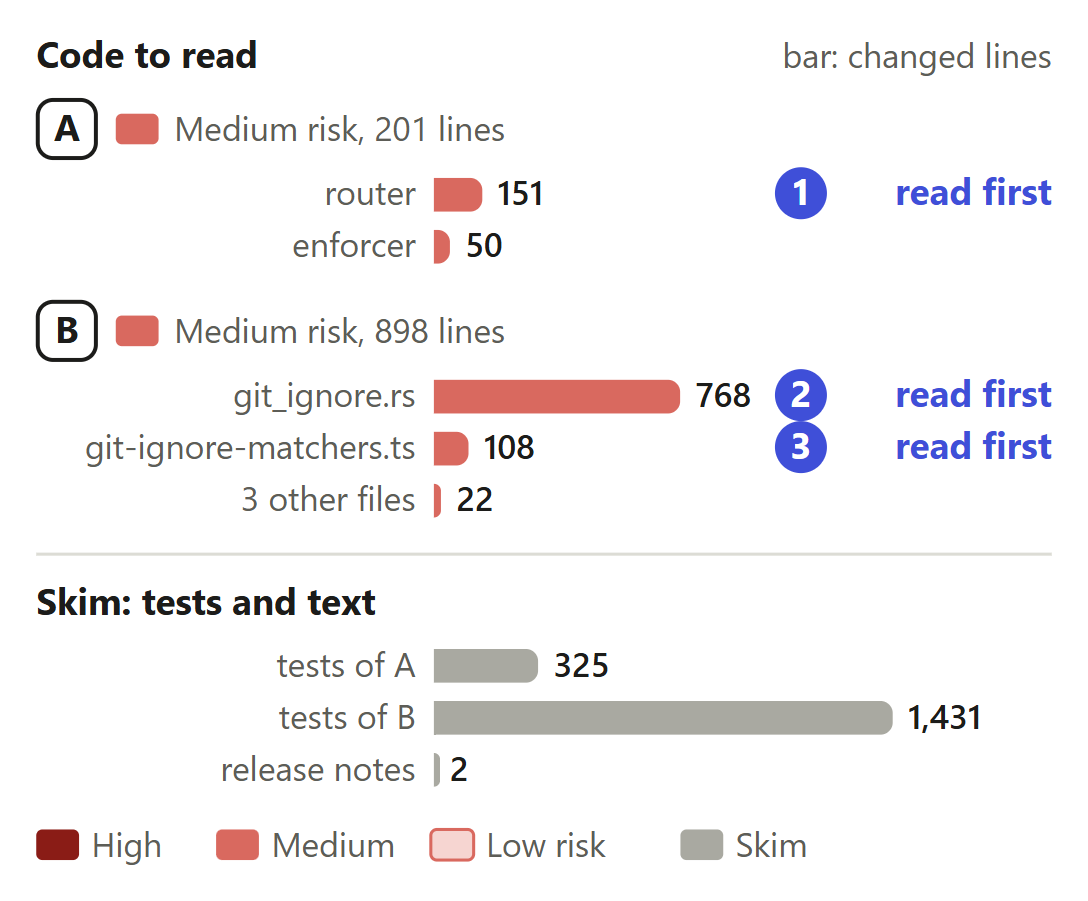
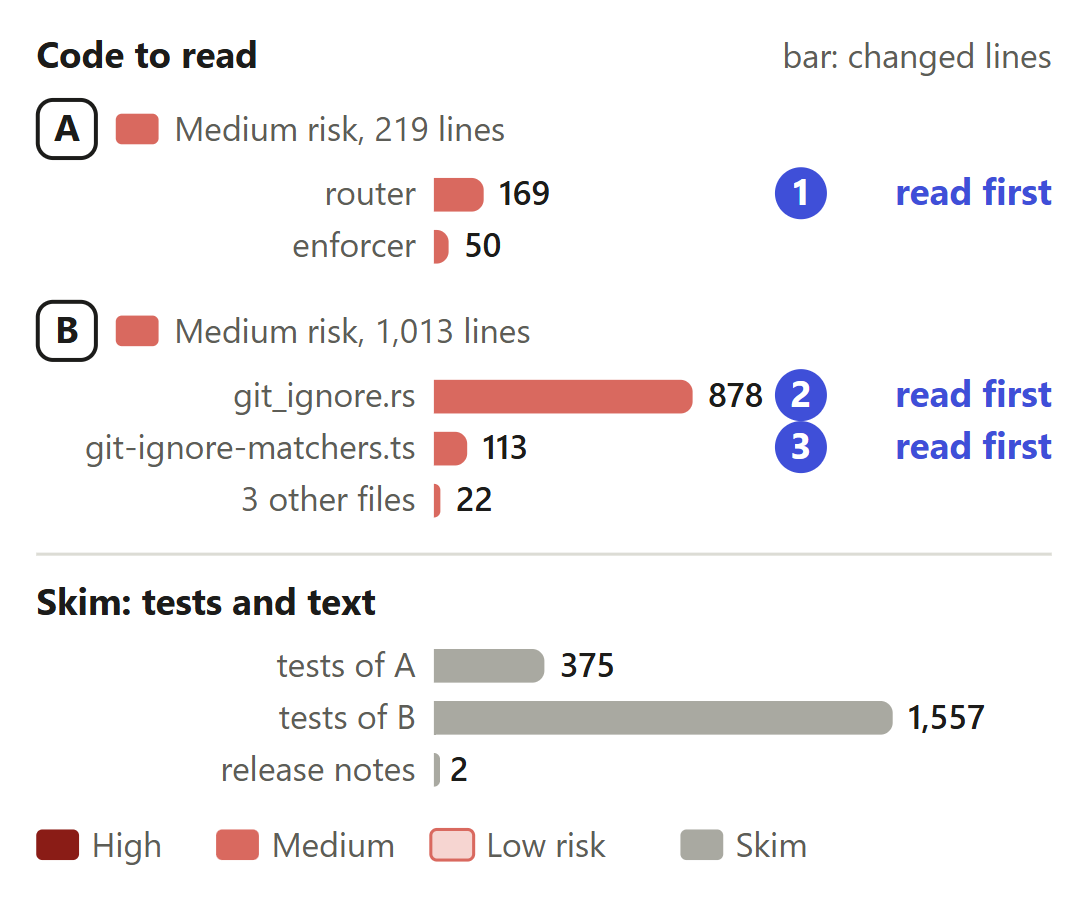
Decision report for #812 (JeanFrancoisGagne/main-memory-per-worktree)
main-memory-per-worktree/ holds what the pull request's callout links: README.md, the report in GitHub Markdown; report.html, the self-standing page; and 2 image(s).

diff --git a/main-memory-per-worktree/report.html b/main-memory-per-worktree/report.html
@@ -317,11 +317,11 @@ td .src { display: block; font-size: 13px; color: var(--muted); margin-top: 3px;
   <div class="q"><div class="ql">1. The one question</div>
   <p>May a walk answer for a worktree by another&#x27;s rule engine holding the same rules, and sessions share each checkout&#x27;s Git ignore reader?</p>
   </div>
-  <p class="rec"><b>We recommend:</b> approve it: on the 0.2.0 engine the first session&#x27;s walk of 190 checkouts takes 578 MB where <code>main</code> takes 1,898 MB; answers are <code>main</code>&#x27;s or Git&#x27;s, network shares included.</p>
+  <p class="rec"><b>We recommend:</b> approve it: on the 0.2.0 engine the first session&#x27;s walk of 61 checkouts takes 377 to 516 MB where <code>main</code> takes 903 to 1,045 MB; answers are <code>main</code>&#x27;s or Git&#x27;s (network shares: stand-in cases).</p>
   <div class="big">
-    <div><b class="w">2,857 lines</b><span>in 15 files. 1,099 ship, 1,758 are tests and text.</span></div><div><b class="w">Careful review</b><span>It changes which engine answers a walk&#x27;s questions.</span></div><div><b class="w">Waits on Nothing</b><span>No CI result at this head yet.</span></div><div><b class="w">4 not verified</b><span><a href="#gaps">Part 8</a> lists each.</span></div>
+    <div><b class="w">3,166 lines</b><span>in 15 files. 1,232 ship, 1,934 are tests and text.</span></div><div><b class="w">Careful review</b><span>It changes which engine answers a walk&#x27;s questions.</span></div><div><b class="w">Waits on Nothing</b><span>No CI result at this head yet.</span></div><div><b class="w">4 not verified</b><span><a href="#gaps">Part 8</a> lists each.</span></div>
   </div>
-  <p class="state">Read from <a href="https://github.com/neralabs/rerail/pull/812">GitHub</a> on 19 November 2026, at head 550728530.</p>
+  <p class="state">Read from <a href="https://github.com/neralabs/rerail/pull/812">GitHub</a> on 19 November 2026, at head da345bfc3.</p>
 </header>
 <section id="intent"><h2>2. Intent, and the gap</h2>
 <figure class="fg flat"><table class="tc it"><colgroup><col style="width:15%"><col style="width:25%"><col style="width:29%"><col style="width:31%"></colgroup><thead><tr><th>Change</th><th>Intended</th><th>Found</th><th>Now</th></tr></thead><tbody><tr><td class="k"><span class="lb">A</span><b>A walk&#x27;s questions</b></td><td class="in" data-l="Intended">A walk&#x27;s question about a file is answered by the rules of the file&#x27;s own checkout. <span class="tagx">our reading</span></td><td class="fo" data-l="Found">One session in 153 checkouts took the daemon over 2 GB: one engine per worktree the walk asked about. <span class="tagx">heap snapshot</span></td><td class="now" data-l="Now"><b>Closes the gap</b> an open engine at the same rules version answers for a worktree with no engine, through that worktree&#x27;s Git ignore rules.</td></tr><tr><td class="k"><span class="lb">B</span><b>Git ignore readers</b></td><td class="in" data-l="Intended">A router&#x27;s Git ignore rules for a checkout open once; &quot;its rules open once&quot;. <span class="tagx">code comment</span></td><td class="fo" data-l="Found">Each session opened a reader, with its copy of the index, in every worktree it asked about. <span class="tagx">one reading</span></td><td class="now" data-l="Now"><b>Closes the gap</b> and sessions share one reader per checkout while its rules are unchanged.</td></tr><tr><td class="k"><span class="lb">B</span><b>The index read again</b></td><td class="in" data-l="Intended">&quot;The index is re-read whenever it changes on disk.&quot; <span class="tagx">code comment</span></td><td class="fo" data-l="Found">A file <code>git add -f</code> made tracked within one clock step stayed ignored: 0 of 5 edits checked. <span class="tagx">engine case, #809</span></td><td class="now" data-l="Now"><b>Closes the gap</b> and rereads the index whenever its file&#x27;s identity, time or size changes.</td></tr></tbody></table>
@@ -329,7 +329,7 @@ td .src { display: block; font-size: 13px; color: var(--muted); margin-top: 3px;
 <details class="ev"><summary>Sources at main, and causes</summary><div class="table-wrap"><table class="tc tight"><colgroup><col style="width:16%"><col style="width:42%"><col style="width:42%"></colgroup><thead><tr><th>Change</th><th>Where main states the intent</th><th>The cause, and what was measured</th></tr></thead><tbody><tr><td class="k">A. A walk&#x27;s questions</td><td data-l="Where main states the intent"><code>src/engine/code-rule/checkout-code-rule-router.ts</code> at 7efcac9c6: <code>#accepts</code> and <code>#ignores</code> answer through <code>#lane(owner.checkoutRoot)</code>, which opens that checkout&#x27;s rule engine on first use.</td><td data-l="The cause, and what was measured"><code>#accepts</code> and <code>#ignores</code> call <code>#lane</code>, which opens a <code>NativeCodeRuleEnforcer</code> and its workspace (the checkout&#x27;s rules, a content store, its index) in every worktree the first walk reaches. A heap snapshot after one session held one per checkout.</td></tr><tr><td class="k">B. Git ignore readers</td><td data-l="Where main states the intent"><code>src/engine/code-rule/checkout-code-rule-router.ts</code> at 7efcac9c6, <code>#gitIgnores</code>: &quot;Whether Git ignores <code>owner</code>&#x27;s path in its checkout, while the session follows <code>.gitignore</code>; its rules open once.&quot; Once per router: each session opens its own.</td><td data-l="The cause, and what was measured"><code>openGitIgnoreMatcher</code> is called per router and per engine, so sessions in a repository of many worktrees each hold a copy of every asked worktree&#x27;s Git index.</td></tr><tr><td class="k">B. The index read again</td><td data-l="Where main states the intent"><code>native/src/git_ignore.rs</code> at 7efcac9c6, the module comment: &quot;The index is re-read whenever it changes on disk, so <code>git add</code> of an ignored file brings it back&quot;. <code>ignored_by</code> reads it through gix&#x27;s shared index (<code>index_or_empty</code>).</td><td data-l="The cause, and what was measured">gix reads its shared index again only once the file&#x27;s modification time is later. Git writes the index to a new file and renames it over the old one, and a second write within one step of the file system&#x27;s clock keeps the first one&#x27;s time, to the nanosecond. <code>main</code>&#x27;s own case fails 3 of 200 runs on a machine whose file times step every 4 ms.</td></tr></tbody></table></div></details>
 </section><section id="look"><h2>3. Where to look</h2>
 <p class="sub">Minutes are our estimate.</p>
-<div class="duo"><figure class="fg"><svg viewBox="0 0 340 279" role="img" aria-label="The changed files as bars sized by changed lines, grouped by change and coloured by risk. Code to read: A, Walk answered without new engines, medium risk, 201 lines; B, One Git ignore reader per checkout, medium risk, 898 lines. Read first: checkout-code-rule-router.ts, git_ignore.rs, git-ignore-matchers.ts. To skim: 1,756 lines of tests and 2 lines of half the memory; same-step force-adds checked.." class="dg map"><text x="4" y="14" class="t b">Code to read</text><text x="336" y="14" text-anchor="end" class="t s">bar: changed lines</text><rect x="4.5" y="24.5" width="19" height="19" rx="5" class="lt"/><text x="14" y="38" text-anchor="middle" class="t b">A</text><rect x="30" y="29" width="14" height="10" rx="2" class="rk med"/><text x="49" y="38" class="t s">Medium risk, 201 lines</text><text x="128" y="59" text-anchor="end" class="t s">router</text><g><title>router: 151 changed lines, medium risk</title><path d="M134 50h11.8281a4 4 0 0 1 4 4v3a4 4 0 0 1 -4 4h-11.8281z" class="rk med"/></g><text x="154.828" y="59" class="t n">151</text><text x="336" y="59" text-anchor="end" class="t b acc">read first</text><circle cx="254" cy="55" r="8.5" class="nc"/><text x="254" y="59" text-anchor="middle" class="t b inv">1</text><text x="128" y="76" text-anchor="end" class="t s">enforcer</text><g><title>enforcer: 50 changed lines, medium risk</title><path d="M134 67h1.24109a4 4 0 0 1 4 4v3a4 4 0 0 1 -4 4h-1.24109z" class="rk med"/></g><text x="144.241" y="76" class="t n">50</text><rect x="4.5" y="90.5" width="19" height="19" rx="5" class="lt"/><text x="14" y="104" text-anchor="middle" class="t b">B</text><rect x="30" y="95" width="14" height="10" rx="2" class="rk med"/><text x="49" y="104" class="t s">Medium risk, 898 lines</text><text x="128" y="125" text-anchor="end" class="t s">git_ignore.rs</text><g><title>git_ignore.rs: 768 changed lines, medium risk</title><path d="M134 116h76.5031a4 4 0 0 1 4 4v3a4 4 0 0 1 -4 4h-76.5031z" class="rk med"/></g><text x="219.503" y="125" class="t n">768</text><text x="336" y="125" text-anchor="end" class="t b acc">read first</text><circle cx="254" cy="121" r="8.5" class="nc"/><text x="254" y="125" text-anchor="middle" class="t b inv">2</text><text x="128" y="142" text-anchor="end" class="t s">git-ignore-matchers.ts</text><g><title>git-ignore-matchers.ts: 108 changed lines, medium risk</title><path d="M134 133h7.32075a4 4 0 0 1 4 4v3a4 4 0 0 1 -4 4h-7.32075z" class="rk med"/></g><text x="150.321" y="142" class="t n">108</text><text x="336" y="142" text-anchor="end" class="t b acc">read first</text><circle cx="254" cy="138" r="8.5" class="nc"/><text x="254" y="142" text-anchor="middle" class="t b inv">3</text><text x="128" y="159" text-anchor="end" class="t s">3 other files</text><g><title>3 other files: 22 changed lines, medium risk</title><path d="M134 150h0a2.30608 2.30608 0 0 1 2.30608 2.30608v6.38784a2.30608 2.30608 0 0 1 -2.30608 2.30608h-0z" class="rk med"/></g><text x="141.306" y="159" class="t n">22</text><line x1="4" y1="173" x2="336" y2="173" class="ar thin"/><text x="4" y="193" class="t b">Skim: tests and text</text><text x="128" y="213" text-anchor="end" class="t s">tests of A</text><g><title>Tests of change A: 325 changed lines, skim</title><path d="M134 204h30.0671a4 4 0 0 1 4 4v3a4 4 0 0 1 -4 4h-30.0671z" class="rk skim"/></g><text x="173.067" y="213" class="t n">325</text><text x="128" y="230" text-anchor="end" class="t s">tests of B</text><g><title>Tests of change B: 1,431 changed lines, skim</title><path d="M134 221h146a4 4 0 0 1 4 4v3a4 4 0 0 1 -4 4h-146z" class="rk skim"/></g><text x="289" y="230" class="t n">1,431</text><text x="128" y="247" text-anchor="end" class="t s">release notes</text><g><title>Half the memory; same-step force-adds checked.: 2 lines</title><path d="M134 238h0a2 2 0 0 1 2 2v7a2 2 0 0 1 -2 2h0z" class="rk skim"/></g><text x="139.21" y="247" class="t n">2</text><rect x="4" y="263" width="14" height="10" rx="2" class="rk high"/><text x="22" y="272" class="t s">High</text><rect x="62.8" y="263" width="14" height="10" rx="2" class="rk med"/><text x="80.8" y="272" class="t s">Medium</text><rect x="133" y="263" width="14" height="10" rx="2" class="rk low"/><text x="151" y="272" class="t s">Low risk</text><rect x="214.6" y="263" width="14" height="10" rx="2" class="rk skim"/><text x="232.6" y="272" class="t s">Skim</text></svg>
+<div class="duo"><figure class="fg"><svg viewBox="0 0 340 279" role="img" aria-label="The changed files as bars sized by changed lines, grouped by change and coloured by risk. Code to read: A, Walk answered without new engines, medium risk, 219 lines; B, One Git ignore reader per checkout, medium risk, 1,013 lines. Read first: checkout-code-rule-router.ts, git_ignore.rs, git-ignore-matchers.ts. To skim: 1,932 lines of tests and 2 lines of half the memory; same-step force-adds checked.." class="dg map"><text x="4" y="14" class="t b">Code to read</text><text x="336" y="14" text-anchor="end" class="t s">bar: changed lines</text><rect x="4.5" y="24.5" width="19" height="19" rx="5" class="lt"/><text x="14" y="38" text-anchor="middle" class="t b">A</text><rect x="30" y="29" width="14" height="10" rx="2" class="rk med"/><text x="49" y="38" class="t s">Medium risk, 219 lines</text><text x="128" y="59" text-anchor="end" class="t s">router</text><g><title>router: 169 changed lines, medium risk</title><path d="M134 50h12.2813a4 4 0 0 1 4 4v3a4 4 0 0 1 -4 4h-12.2813z" class="rk med"/></g><text x="155.281" y="59" class="t n">169</text><text x="336" y="59" text-anchor="end" class="t b acc">read first</text><circle cx="254" cy="55" r="8.5" class="nc"/><text x="254" y="59" text-anchor="middle" class="t b inv">1</text><text x="128" y="76" text-anchor="end" class="t s">enforcer</text><g><title>enforcer: 50 changed lines, medium risk</title><path d="M134 67h0.816956a4 4 0 0 1 4 4v3a4 4 0 0 1 -4 4h-0.816956z" class="rk med"/></g><text x="143.817" y="76" class="t n">50</text><rect x="4.5" y="90.5" width="19" height="19" rx="5" class="lt"/><text x="14" y="104" text-anchor="middle" class="t b">B</text><rect x="30" y="95" width="14" height="10" rx="2" class="rk med"/><text x="49" y="104" class="t s">Medium risk, 1,013 lines</text><text x="128" y="125" text-anchor="end" class="t s">git_ignore.rs</text><g><title>git_ignore.rs: 878 changed lines, medium risk</title><path d="M134 116h80.5857a4 4 0 0 1 4 4v3a4 4 0 0 1 -4 4h-80.5857z" class="rk med"/></g><text x="223.586" y="125" class="t n">878</text><text x="336" y="125" text-anchor="end" class="t b acc">read first</text><circle cx="254" cy="121" r="8.5" class="nc"/><text x="254" y="125" text-anchor="middle" class="t b inv">2</text><text x="128" y="142" text-anchor="end" class="t s">git-ignore-matchers.ts</text><g><title>git-ignore-matchers.ts: 113 changed lines, medium risk</title><path d="M134 133h6.88632a4 4 0 0 1 4 4v3a4 4 0 0 1 -4 4h-6.88632z" class="rk med"/></g><text x="149.886" y="142" class="t n">113</text><text x="336" y="142" text-anchor="end" class="t b acc">read first</text><circle cx="254" cy="138" r="8.5" class="nc"/><text x="254" y="142" text-anchor="middle" class="t b inv">3</text><text x="128" y="159" text-anchor="end" class="t s">3 other files</text><g><title>3 other files: 22 changed lines, medium risk</title><path d="M134 150h0a2.11946 2.11946 0 0 1 2.11946 2.11946v6.76108a2.11946 2.11946 0 0 1 -2.11946 2.11946h-0z" class="rk med"/></g><text x="141.119" y="159" class="t n">22</text><line x1="4" y1="173" x2="336" y2="173" class="ar thin"/><text x="4" y="193" class="t b">Skim: tests and text</text><text x="128" y="213" text-anchor="end" class="t s">tests of A</text><g><title>Tests of change A: 375 changed lines, skim</title><path d="M134 204h32.1272a4 4 0 0 1 4 4v3a4 4 0 0 1 -4 4h-32.1272z" class="rk skim"/></g><text x="175.127" y="213" class="t n">375</text><text x="128" y="230" text-anchor="end" class="t s">tests of B</text><g><title>Tests of change B: 1,557 changed lines, skim</title><path d="M134 221h146a4 4 0 0 1 4 4v3a4 4 0 0 1 -4 4h-146z" class="rk skim"/></g><text x="289" y="230" class="t n">1,557</text><text x="128" y="247" text-anchor="end" class="t s">release notes</text><g><title>Half the memory; same-step force-adds checked.: 2 lines</title><path d="M134 238h0a2 2 0 0 1 2 2v7a2 2 0 0 1 -2 2h0z" class="rk skim"/></g><text x="139.193" y="247" class="t n">2</text><rect x="4" y="263" width="14" height="10" rx="2" class="rk high"/><text x="22" y="272" class="t s">High</text><rect x="62.8" y="263" width="14" height="10" rx="2" class="rk med"/><text x="80.8" y="272" class="t s">Medium</text><rect x="133" y="263" width="14" height="10" rx="2" class="rk low"/><text x="151" y="272" class="t s">Low risk</text><rect x="214.6" y="263" width="14" height="10" rx="2" class="rk skim"/><text x="232.6" y="272" class="t s">Skim</text></svg>
 <figcaption>Most lines are the engine&#x27;s Git ignore reader and the router.</figcaption></figure>
 <div><ol class="steps"><li class="first"><div><span class="rf">Read first</span><b><code>checkout-code-rule-router.ts</code>: <code>#accepts</code>, <code>#readsIn</code>, <code>#laneWithRulesOf</code>, <code>#refreshAnsweredCatalogs</code></b><span class="min">8 min</span><span class="x">Can a worktree be answered by an engine whose rules read paths its own would not?</span></div></li><li class="first"><div><span class="rf">Read first</span><b><code>git_ignore.rs</code>: <code>sources_unchanged</code>, <code>Sources</code>, <code>refresh</code>, <code>FileStamp</code></b><span class="min">10 min</span><span class="x">Which ignore change or index write would a new reader see that this one misses?</span></div></li><li class="first"><div><span class="rf">Read first</span><b><code>git-ignore-matchers.ts</code>: <code>matcher</code>, <code>release</code></b><span class="min">4 min</span><span class="x">Is a reader ever kept after every router that took it has closed?</span></div></li><li><div><b><code>code-rule-enforcer.ts</code>, <code>native.ts</code>, <code>engine-service.ts</code> and <code>runtime.ts</code>: the version and path questions, the binding and the wiring</b><span class="min">3 min</span></div></li></ol>
 <div class="skim"><i></i><div><span class="rf">Then skim</span><b>Tests and text</b><span class="min">8 min</span><span class="x">The router cases count engines and readers opened; the reader cases change one Git source at a time and ask a later router.</span></div></div>
@@ -340,14 +340,14 @@ td .src { display: block; font-size: 13px; color: var(--muted); margin-top: 3px;
 <details class="ev"><summary>Each limit, and each check that does not hold yet</summary><div class="table-wrap"><table class="tc tight"><colgroup><col style="width:18%"><col style="width:22%"><col style="width:60%"></colgroup><thead><tr><th>Change</th><th>Check</th><th>Its limit, or why it does not hold yet</th></tr></thead><tbody><tr><td class="k">A and B</td><td data-l="Check">CI at this head</td><td data-l="Its limit, or why it does not hold yet">CI ran green on the pull request at 44907c8b2; it runs again on the pushed head.</td></tr></tbody></table></div></details>
 </section><section id="changes"><h2>5. The changes</h2>
 <p class="sub">Each line opens its card.</p>
-<details class="card"><summary><span class="lb">A</span><b>Walk answered without new engines</b><span class="chip medium"><i></i>Medium risk</span><span class="sx">First session, 190 checkouts of 1,000 files: 1,898 MB at <code>main</code>, 578 MB here, on Linux x64 (the 0.2.0 engine).</span></summary>
+<details class="card"><summary><span class="lb">A</span><b>Walk answered without new engines</b><span class="chip medium"><i></i>Medium risk</span><span class="sx">First session, 190 checkouts, open-file limit 92: 1,898 MB at <code>main</code>, 578 MB here (Linux x64, 0.2.0 engine).</span></summary>
 <div class="two"><dl class="kv">
 <dt>Problem</dt><dd>A session&#x27;s first walk asks of every file of every worktree whether a rule reads it. <code>main</code> opens a rule engine in each worktree to answer, with the checkout&#x27;s rules, a content store and its Git index.</dd>
 <dt>Who meets it</dt><dd>Everyone who opens a session in a repository with many worktrees, once per daemon start. #726 measured 846 MB with 110 worktrees on 0.1.5.</dd>
 <dt>What it does</dt><dd><code>#accepts</code> answers for a worktree with no engine by an open engine at the same rules version (<code>#laneWithRulesOf</code>, <code>rulesVersion</code>, <code>readsPath</code>), through that worktree&#x27;s own Git ignore rules; its catalog is read again with the engines&#x27; own.</dd>
 <dt>Risk</dt><dd>Medium. The answer comes from another engine: a rule whose reach depended on more than its catalog version would read differently. None does at <code>main</code>.</dd>
 <dt>Check</dt><dd>Is a catalog version enough to say two worktrees read the same paths, and is every worktree answered by another read again when the rules are?</dd>
-</dl><figure><svg viewBox="0 0 340 70" role="img" aria-label="After the first session in a repository of 190 checkouts of 1,000 files with the four suggested rule packs, the daemon holds 1,898 MB at main 7efcac9c6 and 578 MB with this change, on Linux x64 (medians of 10 pairs)." class="dg pic"><text x="4" y="17" class="t b">Daemon after the first session (MB)</text><text x="74" y="34" text-anchor="end" class="t s">main</text><g><title>Daemon after the first session (MB), main: 1,898 MB</title><path d="M80 24h140.248a4 4 0 0 1 4 4v4a4 4 0 0 1 -4 4h-140.248z" class="rk was"/></g><text x="230.248" y="34" class="t n">1,898 MB</text><text x="74" y="51" text-anchor="end" class="t s">this change</text><g><title>Daemon after the first session (MB), this change: 578 MB</title><path d="M80 41h39.928a4 4 0 0 1 4 4v4a4 4 0 0 1 -4 4h-39.928z" class="rk now"/></g><text x="129.928" y="51" class="t n">578 MB</text></svg><figcaption>Method: A generated repository of 190 checkouts of 1,000 files with the four suggested rule packs; a fresh daemon under an open-file limit of 92, then three sessions through real Claude Code hooks; resident memory once the daemon settles. 10 pairs, alternating order, on one Linux x64 machine; the median of each side.</figcaption></figure></div></details><details class="card"><summary><span class="lb">B</span><b>One Git ignore reader per checkout</b><span class="chip medium"><i></i>Medium risk</span><span class="sx">Sessions share each checkout&#x27;s ignore reader: the engine 96 MB less a later session, at 153 checkouts.</span></summary>
+</dl><figure><svg viewBox="0 0 340 70" role="img" aria-label="After the first session in a repository of 190 checkouts of 1,000 files with the four suggested rule packs, the daemon holds 1,898 MB at main 7efcac9c6 and 578 MB with this change, on Linux x64, under an open-file limit of 92 (medians of 10 pairs)." class="dg pic"><text x="4" y="17" class="t b">Daemon after the first session (MB)</text><text x="74" y="34" text-anchor="end" class="t s">main</text><g><title>Daemon after the first session (MB), main: 1,898 MB</title><path d="M80 24h140.248a4 4 0 0 1 4 4v4a4 4 0 0 1 -4 4h-140.248z" class="rk was"/></g><text x="230.248" y="34" class="t n">1,898 MB</text><text x="74" y="51" text-anchor="end" class="t s">this change</text><g><title>Daemon after the first session (MB), this change: 578 MB</title><path d="M80 41h39.928a4 4 0 0 1 4 4v4a4 4 0 0 1 -4 4h-39.928z" class="rk now"/></g><text x="129.928" y="51" class="t n">578 MB</text></svg><figcaption>Method: A generated repository of 190 checkouts of 1,000 files with the four suggested rule packs; a fresh daemon under an open-file limit of 92, then three sessions through real Claude Code hooks; resident memory once the daemon settles. 10 pairs, alternating order, on one Linux x64 machine; the median of each side.</figcaption></figure></div></details><details class="card"><summary><span class="lb">B</span><b>One Git ignore reader per checkout</b><span class="chip medium"><i></i>Medium risk</span><span class="sx">Sessions share each checkout&#x27;s ignore reader: the engine 96 MB less a later session, at 153 checkouts.</span></summary>
 <div class="two"><dl class="kv">
 <dt>Problem</dt><dd>A Git ignore reader holds its checkout&#x27;s Git index. At <code>main</code> each session opens one in every worktree it asks about.</dd>
 <dt>Who meets it</dt><dd>Every session after the first in a repository with many worktrees.</dd>
@@ -365,9 +365,9 @@ td .src { display: block; font-size: 13px; color: var(--muted); margin-top: 3px;
 <p><b>Would change our mind:</b> A source of ignore rules gix reads that <code>Sources</code> misses.</p>
 <details class="ev"><summary>Options and evidence</summary><div class="table-wrap"><table class="tc tight"><colgroup><col style="width:28%"><col style="width:22%"><col style="width:22%"><col style="width:28%"></colgroup><thead><tr><th>Option</th><th>What a user gets</th><th>Cost</th><th>What it breaks</th></tr></thead><tbody><tr><td class="k">The engine reads the configuration again and compares three files&#x27; bytes <span class='tag new'>chosen</span></td><td data-l="What a user gets">Each later session follows the rules a new reader would read.</td><td data-l="Cost">One configuration read and three small file reads per checkout per later session.</td><td data-l="What it breaks">Nothing found through real hooks on two systems.</td></tr><tr><td class="k">A list of Git&#x27;s files kept in TypeScript</td><td data-l="What a user gets">The same, until Git reads a file the list lacks.</td><td data-l="Cost">A second list that trails Git.</td><td data-l="What it breaks">Missed includes, conditional includes and a commented value in an earlier version.</td></tr><tr><td class="k">One reader per session</td><td data-l="What a user gets">The same answers.</td><td data-l="Cost">A copy of each checkout&#x27;s index per session.</td><td data-l="What it breaks">Memory.</td></tr></tbody></table></div><p><b>Evidence.</b> Through real Claude Code hooks, sessions opened after each change of ignore sources answered as <code>main</code> on Linux x64 and Windows 11; in one state the shared reader answered as Git where <code>main</code> did not.</p></details></div>
 </section><section id="fits"><h2>7. How it fits</h2>
-<div class="duo"><figure class="fg"><svg viewBox="0 0 340 130" role="img" aria-label="This pull request is based on main at 7efcac9c6, the 0.2.0 engine, and needs no other change." class="dg fit"><rect x="4" y="4" width="332" height="50" rx="8" class="bx good"/><text x="14" y="23" class="t b">main at 7efcac9c6</text><text x="14" y="38" class="t s">needs no other change</text><line x1="170" y1="55" x2="170" y2="79" class="ar " marker-end="url(#ah)"/><text x="176" y="71" class="t s">based on</text><rect x="4" y="80" width="332" height="46" rx="8" class="bx acc"/><text x="170" y="100" text-anchor="middle" class="t b">First walk, half memory</text><text x="170" y="116" text-anchor="middle" class="t s">one ignore reader per checkout</text></svg></figure>
-<div><p>Nothing has to merge first: it stands on <code>main</code> at 7efcac9c6, the 0.2.0 engine, which it merged in.</p>
-<details class="ev"><summary>Open pull requests that share a file</summary><p>Refresh before posting: the trial merges with other open pull requests date from before the engine change.</p></details>
+<div class="duo"><figure class="fg"><svg viewBox="0 0 340 130" role="img" aria-label="This pull request is based on main at a81b07ac3, with the 0.2.0 engine, and needs no other change." class="dg fit"><rect x="4" y="4" width="332" height="50" rx="8" class="bx good"/><text x="14" y="23" class="t b">main at a81b07ac3</text><text x="14" y="38" class="t s">needs no other change</text><line x1="170" y1="55" x2="170" y2="79" class="ar " marker-end="url(#ah)"/><text x="176" y="71" class="t s">based on</text><rect x="4" y="80" width="332" height="46" rx="8" class="bx acc"/><text x="170" y="100" text-anchor="middle" class="t b">First walk, half memory</text><text x="170" y="116" text-anchor="middle" class="t s">one ignore reader per checkout</text></svg></figure>
+<div><p>Nothing has to merge first: it stands on <code>main</code> at a81b07ac3, with the 0.2.0 engine; <code>main</code> cccb25a8d edits none of its files.</p>
+<details class="ev"><summary>Open pull requests that share a file</summary><p>#884 also edits <code>engine-service.ts</code>; a trial merge with this head has no conflict.</p></details>
 </div></div>
 </section><section id="gaps"><h2>8. What is not covered</h2>
 <ul class="lines">
@@ -380,7 +380,7 @@ td .src { display: block; font-size: 13px; color: var(--muted); margin-top: 3px;
 <p><b>Limits that stay.</b></p>
 <ul class="facts">
 <li>An engine that has opened keeps the ignore rules it read for the rest of the session, as at <code>main</code>.</li>
-<li>Where no stamp is kept (a read within its file&#x27;s clock step, an index time ahead of the clock, a network share), each question reads the index&#x27;s 20-byte checksum; under <code>index.skipHash</code>, which writes none, it parses the index.</li>
+<li>Where no stamp is kept (a read within its file&#x27;s clock step, an index time ahead of the clock, a share), a question reads the index&#x27;s 20-byte checksum, or under <code>index.skipHash</code> the whole index.</li>
 <li>The volume is found once per reader by its file system&#x27;s name: a driver that reports NTFS, APFS or HFS+ while giving a new file an earlier one&#x27;s identity would keep a stamp that cannot tell them.</li>
 </ul></details>
 </section><section id="asks"><h2>9. What we ask of you</h2>
@@ -388,7 +388,7 @@ td .src { display: block; font-size: 13px; color: var(--muted); margin-top: 3px;
 </section><section id="evidence"><h2>10. Evidence</h2>
 <p>The description on GitHub is the record: &quot;How you tested it&quot; holds the runs at <code>main</code> and here.</p>
 <details class="ev"><summary>Runs at this head</summary><div class="table-wrap"><table class="tc tight"><colgroup><col style="width:16%"><col style="width:40%"><col style="width:44%"></colgroup><thead><tr><th>Where</th><th>What ran</th><th>Result</th></tr></thead><tbody><tr><td class="k">Linux x64</td><td data-l="What ran">190 checkouts of 1,000 files, three sessions under an open-file limit of 92, at <code>main</code> 7efcac9c6 and this change, alternating pairs</td><td data-l="Result">First session 1,776 to 2,074 MB at <code>main</code>, 436 to 661 MB here; no hook failed in 10 runs here nor in 10 at <code>main</code>; most files open 92 to 92 at <code>main</code>, 87 to 91 here.</td></tr><tr><td class="k">Linux x64</td><td data-l="What ran">Through real hooks at <code>main</code> 7efcac9c6, ba0545900 and this head: an edit after a same-step <code>git add -f</code>; 61 checkouts of 3,000 files</td><td data-l="Result">0 of 5 checked at both mains, 5 of 5 here. First session 1,045 MB at 7efcac9c6, 818 at ba0545900, 507 and 377 here.</td></tr><tr><td class="k">Linux x64 and Windows 11</td><td data-l="What ran">The reader&#x27;s cases at the merge with <code>main</code> (cases added) and here; each new line taken out</td><td data-l="Result">Red at the merge on both systems; here 3 runs on Linux x64, 5 on Windows 11, every case but <code>main</code>&#x27;s own path-form case on Windows; every mutant fails a case.</td></tr><tr><td class="k">Linux x64</td><td data-l="What ran">61 checkouts of 3,000 files, a session in the main checkout and one in a worktree, through real hooks, at <code>main</code> e021bf5c0 and here, two runs a side (before the engine change)</td><td data-l="Result">First session settled at 822 and 937 MB at <code>main</code>, 481 and 355 MB here; engine 539 and 92 to 93 MB.</td></tr><tr><td class="k">Linux x64</td><td data-l="What ran">153 checkouts of 7,500 files, a session in the main checkout and three worktrees, at <code>main</code> cf5d520e4 and this head on one machine; 11 checkouts under strace for the daemon&#x27;s index reads (before the engine change)</td><td data-l="Result">First session 2,380 MB at <code>main</code> (engine 1,469 MB), 1,016 MB here (engine 204 MB); earlier pairs 2,212 against 1,024 and 2,193 against 1,054 MB. A later session&#x27;s reader reads no index here, one per checkout at <code>main</code>.</td></tr><tr><td class="k">Linux x64 and Windows 11</td><td data-l="What ran">Through real hooks at <code>main</code> cf5d520e4 and this head: an edit after a same-step <code>git add -f</code> (one session, five rounds); an earlier session after a later one took the reader (three runs a side) (before the engine change)</td><td data-l="Result">One session: 0 of 5 checked at <code>main</code>, 5 of 5 here, on both systems. Earlier session: 3 of 3 at both in every run, on both systems.</td></tr><tr><td class="k">Linux x64</td><td data-l="What ran">CI&#x27;s integration job at this head; <code>main</code>&#x27;s own index re-read case, 200 runs a build, on a machine whose file times step every 4 ms; each reader line taken out (before the engine change)</td><td data-l="Result">90 tests passed, 4 skipped. The case failed 3 times at <code>main</code> and none here. Each of ten mutants of the reader fails a case.</td></tr><tr><td class="k">Windows 11</td><td data-l="What ran">35 test files reaching the reader, with this head&#x27;s engine; the new cases 20 runs in a row; the engine&#x27;s tests at <code>main</code> and here (before the engine change)</td><td data-l="Result">729 passed, 5 skipped; 8 failures outside <code>main</code>&#x27;s record (time-outs, two walk checks) passed 3 of 3 runs again, where <code>main</code> failed one bound once. The new cases pass 20 runs. The engine fails the same 14 cases as <code>main</code> on one machine.</td></tr></tbody></table></div></details>
-<details class="ev"><summary>Sources</summary><p>The branch at 550728530 and its diff against <code>main</code> 7efcac9c6, read on 19 November 2026; runs on Linux x64 and Windows 11 machines of ours.</p></details>
+<details class="ev"><summary>Sources</summary><p>The branch at da345bfc3 and its diff against <code>main</code> cccb25a8d (merge base a81b07ac3), read on 19 November 2026; runs on Linux x64 and Windows 11 machines of ours.</p></details>
 </section>
 <footer><p>A figure we could not source is left out.</p></footer>
 </main>

diff --git a/main-memory-per-worktree/README.md b/main-memory-per-worktree/README.md
@@ -1,16 +1,16 @@
 # A first session's walk of many worktrees takes about half the memory
 
-For [pull request #812](https://github.com/neralabs/rerail/pull/812), head 550728530. [report.html](report.html) is the same report as one page: download it and open it.
+For [pull request #812](https://github.com/neralabs/rerail/pull/812), head da345bfc3. [report.html](report.html) is the same report as one page: download it and open it.
 
 ## 1. The decision
 
 **May a walk answer for a worktree by another's rule engine holding the same rules, and sessions share each checkout's Git ignore reader?**
 
-**We recommend:** approve it: on the 0.2.0 engine the first session's walk of 190 checkouts takes 578 MB where `main` takes 1,898 MB; answers are `main`'s or Git's, network shares included.
+**We recommend:** approve it: on the 0.2.0 engine the first session's walk of 61 checkouts takes 377 to 516 MB where `main` takes 903 to 1,045 MB; answers are `main`'s or Git's (network shares: stand-in cases).
 
 | Size | Risk and review | Waits on | Not verified |
 |---|---|---|---|
-| 2,857 lines in 15 files: 1,099 ship, 1,758 are tests and text | Careful. It changes which engine answers a walk's questions. | Nothing. No CI result at this head yet. | 4 |
+| 3,166 lines in 15 files: 1,232 ship, 1,934 are tests and text | Careful. It changes which engine answers a walk's questions. | Nothing. No CI result at this head yet. | 4 |
 
 ## 2. Intent, and the gap
 
@@ -34,7 +34,7 @@ Found in November 2026 on Linux x64 and Windows 11 machines, measuring #726's st
 
 ## 3. Where to look
 
-<img src="map.png" width="544" alt="The changed files as bars sized by changed lines, grouped by change and coloured by risk. Code to read: A, Walk answered without new engines, medium risk, 201 lines; B, One Git ignore reader per checkout, medium risk, 898 lines. Read first: checkout-code-rule-router.ts, git_ignore.rs, git-ignore-matchers.ts. To skim: 1,756 lines of tests and 2 lines of half the memory; same-step force-adds checked..">
+<img src="map.png" width="544" alt="The changed files as bars sized by changed lines, grouped by change and coloured by risk. Code to read: A, Walk answered without new engines, medium risk, 219 lines; B, One Git ignore reader per checkout, medium risk, 1,013 lines. Read first: checkout-code-rule-router.ts, git_ignore.rs, git-ignore-matchers.ts. To skim: 1,932 lines of tests and 2 lines of half the memory; same-step force-adds checked..">
 
 1. **Read first**, 8 min: `checkout-code-rule-router.ts`: `#accepts`, `#readsIn`, `#laneWithRulesOf`, `#refreshAnsweredCatalogs`. Can a worktree be answered by an engine whose rules read paths its own would not?
 2. **Read first**, 10 min: `git_ignore.rs`: `sources_unchanged`, `Sources`, `refresh`, `FileStamp`. Which ignore change or index write would a new reader see that this one misses?
@@ -59,14 +59,14 @@ Start at change A: it decides which engine answers. Change B decides what a late
 
 <details><summary><b>5. The changes</b></summary>
 
-**A. Walk answered without new engines**, medium risk. First session, 190 checkouts of 1,000 files: 1,898 MB at `main`, 578 MB here, on Linux x64 (the 0.2.0 engine).
+**A. Walk answered without new engines**, medium risk. First session, 190 checkouts, open-file limit 92: 1,898 MB at `main`, 578 MB here (Linux x64, 0.2.0 engine).
 
 - **Problem:** A session's first walk asks of every file of every worktree whether a rule reads it. `main` opens a rule engine in each worktree to answer, with the checkout's rules, a content store and its Git index.
 - **Who meets it:** Everyone who opens a session in a repository with many worktrees, once per daemon start. #726 measured 846 MB with 110 worktrees on 0.1.5.
 - **What it does:** `#accepts` answers for a worktree with no engine by an open engine at the same rules version (`#laneWithRulesOf`, `rulesVersion`, `readsPath`), through that worktree's own Git ignore rules; its catalog is read again with the engines' own.
 - **Risk:** Medium. The answer comes from another engine: a rule whose reach depended on more than its catalog version would read differently. None does at `main`.
 - **Check:** Is a catalog version enough to say two worktrees read the same paths, and is every worktree answered by another read again when the rules are?
-- **Picture:** After the first session in a repository of 190 checkouts of 1,000 files with the four suggested rule packs, the daemon holds 1,898 MB at main 7efcac9c6 and 578 MB with this change, on Linux x64 (medians of 10 pairs).
+- **Picture:** After the first session in a repository of 190 checkouts of 1,000 files with the four suggested rule packs, the daemon holds 1,898 MB at main 7efcac9c6 and 578 MB with this change, on Linux x64, under an open-file limit of 92 (medians of 10 pairs).
 - **Method:** A generated repository of 190 checkouts of 1,000 files with the four suggested rule packs; a fresh daemon under an open-file limit of 92, then three sessions through real Claude Code hooks; resident memory once the daemon settles. 10 pairs, alternating order, on one Linux x64 machine; the median of each side.
 
 **B. One Git ignore reader per checkout**, medium risk. Sessions share each checkout's ignore reader: the engine 96 MB less a later session, at 153 checkouts.
@@ -111,11 +111,11 @@ Start at change A: it decides which engine answers. Change B decides what a late
 
 <details><summary><b>7. How it fits</b></summary>
 
-Nothing has to merge first: it stands on `main` at 7efcac9c6, the 0.2.0 engine, which it merged in.
+Nothing has to merge first: it stands on `main` at a81b07ac3, with the 0.2.0 engine; `main` cccb25a8d edits none of its files.
 
-This pull request is based on main at 7efcac9c6, the 0.2.0 engine, and needs no other change.
+This pull request is based on main at a81b07ac3, with the 0.2.0 engine, and needs no other change.
 
-**Open pull requests that share a file.** Refresh before posting: the trial merges with other open pull requests date from before the engine change.
+**Open pull requests that share a file.** #884 also edits `engine-service.ts`; a trial merge with this head has no conflict.
 
 </details>
 
@@ -129,7 +129,7 @@ This pull request is based on main at 7efcac9c6, the 0.2.0 engine, and needs no 
 **Limits that stay**
 
 - An engine that has opened keeps the ignore rules it read for the rest of the session, as at `main`.
-- Where no stamp is kept (a read within its file's clock step, an index time ahead of the clock, a network share), each question reads the index's 20-byte checksum; under `index.skipHash`, which writes none, it parses the index.
+- Where no stamp is kept (a read within its file's clock step, an index time ahead of the clock, a share), a question reads the index's 20-byte checksum, or under `index.skipHash` the whole index.
 - The volume is found once per reader by its file system's name: a driver that reports NTFS, APFS or HFS+ while giving a new file an earlier one's identity would keep a stamp that cannot tell them.
 
 </details>
@@ -153,6 +153,6 @@ The description on GitHub is the record: "How you tested it" holds the runs at `
 | Linux x64 | CI's integration job at this head; `main`'s own index re-read case, 200 runs a build, on a machine whose file times step every 4 ms; each reader line taken out (before the engine change) | 90 tests passed, 4 skipped. The case failed 3 times at `main` and none here. Each of ten mutants of the reader fails a case. |
 | Windows 11 | 35 test files reaching the reader, with this head's engine; the new cases 20 runs in a row; the engine's tests at `main` and here (before the engine change) | 729 passed, 5 skipped; 8 failures outside `main`'s record (time-outs, two walk checks) passed 3 of 3 runs again, where `main` failed one bound once. The new cases pass 20 runs. The engine fails the same 14 cases as `main` on one machine. |
 
-**Sources.** The branch at 550728530 and its diff against `main` 7efcac9c6, read on 19 November 2026; runs on Linux x64 and Windows 11 machines of ours.
+**Sources.** The branch at da345bfc3 and its diff against `main` cccb25a8d (merge base a81b07ac3), read on 19 November 2026; runs on Linux x64 and Windows 11 machines of ours.
 
 </details>
